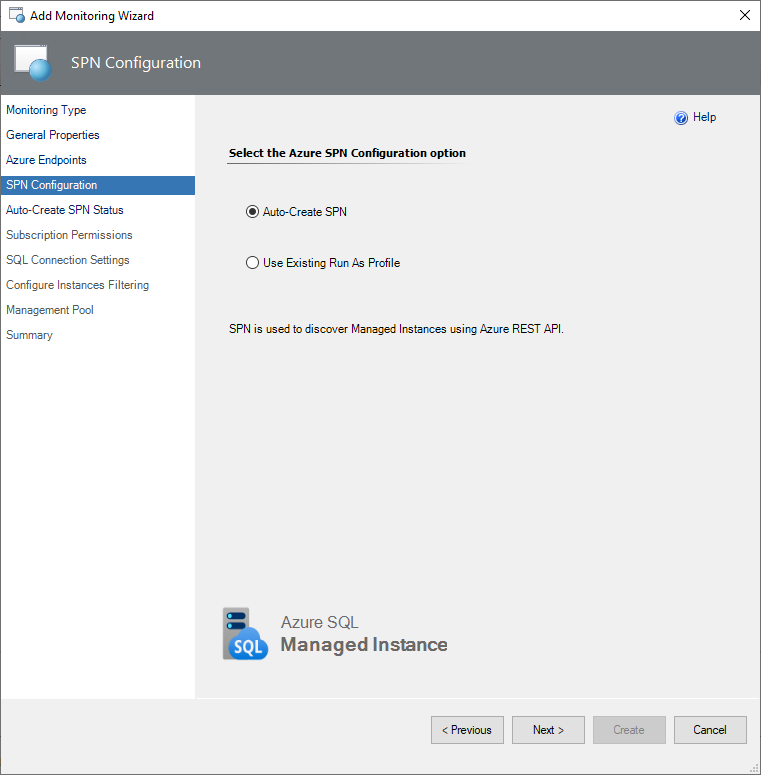
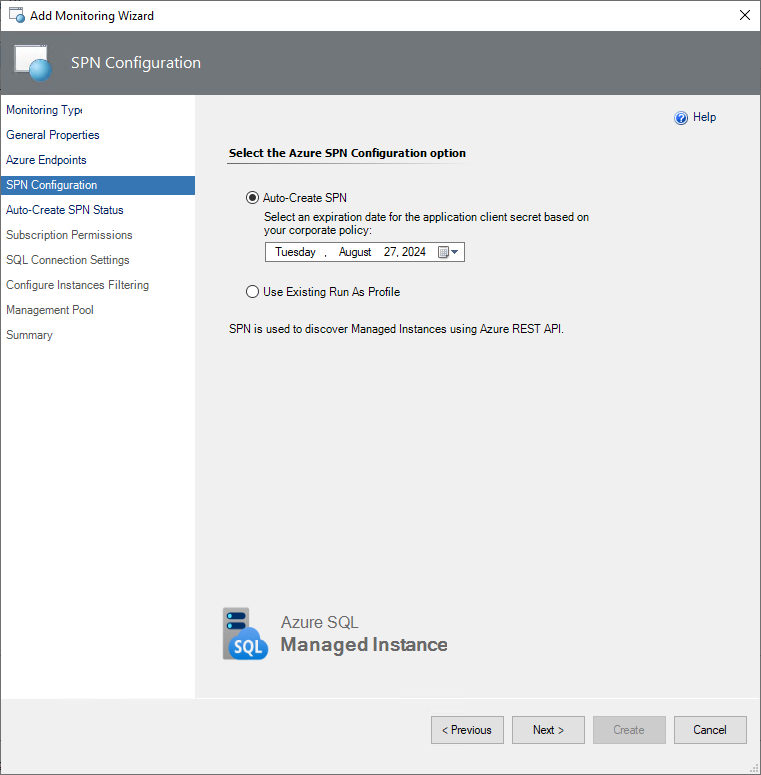
Auto-create SPN step updates

Changed region(s): [[0.3022, 0.2477, 0.7556, 0.4026]]

diff --git a/SystemCenterDocs/scom/managed-instance-management-pack-automatic-monitoring.md b/SystemCenterDocs/scom/managed-instance-management-pack-automatic-monitoring.md
@@ -52,6 +52,8 @@ Select this option if you want your Azure Service Principal Name to be created a
 
 Ensure that the account that you use must have either the **Owner** role (or higher), **Active Directory Administrator**, **Service Administrator**, or **Сo-Administrator**.
 
+Select an expiration date for the new application client secret.
+
 ![Screenshot showing the Automatic Configuring SPN.](./media/managed-instance-management-pack/spn-configuration.png)
 
 If you select the **Auto-Create SPN** option, the **Microsoft Azure sign-in** window will be displayed. In this window, enter your work, school, or personal Microsoft account credentials, select **Next**, and complete the form.
